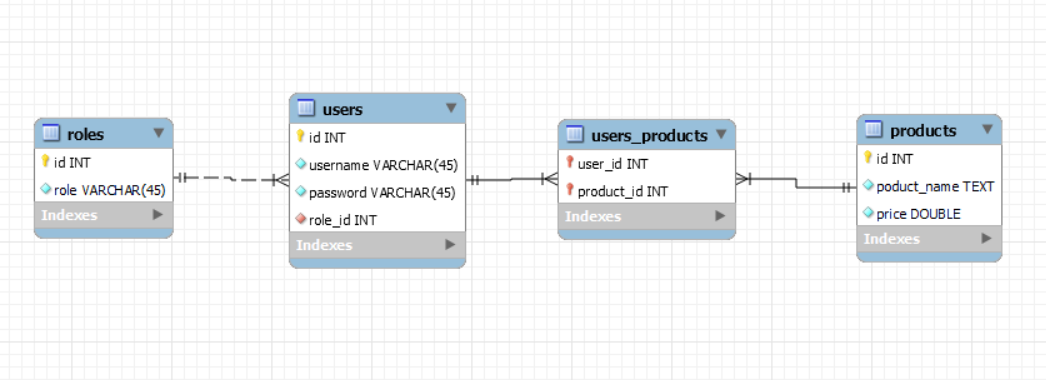
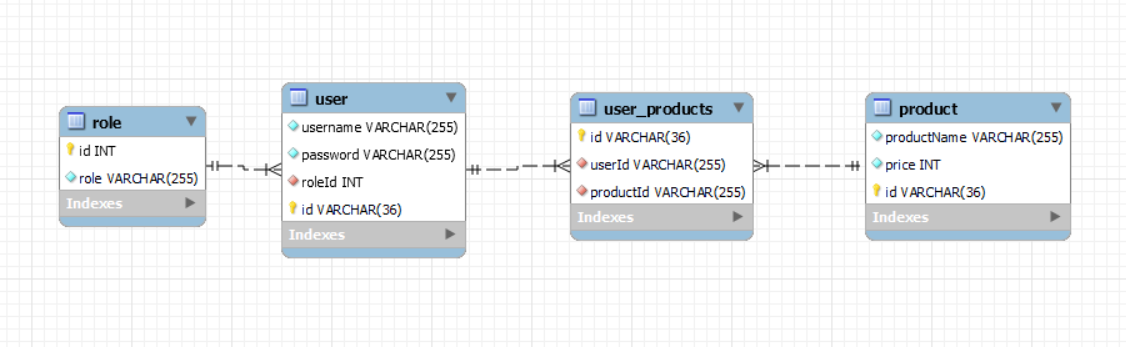
Delete unnecessary imports and update database schema

Changed region(s): [[0.0306, 0.2305, 0.979, 0.7493]]

diff --git a/src/app.module.ts b/src/app.module.ts
@@ -4,7 +4,6 @@ import { TypeOrmModule } from '@nestjs/typeorm';
 import { AppController } from './app.controller';
 import { AppService } from './app.service';
 import entities from './entities';
-import { ProductsController } from './products/products.controller';
 import { ProductsModule } from './products/products.module';
 import { RoleModule } from './role/role.module';
 import { UsersModule } from './user/users.module';

diff --git a/src/users-products/users-products.entity.ts b/src/users-products/users-products.entity.ts
@@ -1,12 +1,6 @@
 import { Product } from 'src/products/products.entity';
 import { User } from 'src/user/user.entity';
-import {
-  Column,
-  Entity,
-  ManyToOne,
-  PrimaryColumn,
-  PrimaryGeneratedColumn,
-} from 'typeorm';
+import { Column, Entity, ManyToOne, PrimaryGeneratedColumn } from 'typeorm';
 
 @Entity()
 export class UserProducts {

diff --git a/src/user/users.controller.ts b/src/user/users.controller.ts
@@ -1,13 +1,4 @@
-import {
-  Controller,
-  Post,
-  Body,
-  Get,
-  Put,
-  Delete,
-  Param,
-  Req,
-} from '@nestjs/common';
+import { Controller, Post, Get, Put, Delete, Param, Req } from '@nestjs/common';
 import { UserService } from './users.service';
 import { Request } from 'express';
 

diff --git a/src/users-products/users-products.service.ts b/src/users-products/users-products.service.ts
@@ -1,4 +1,4 @@
-import { Injectable, Inject } from '@nestjs/common';
+import { Injectable } from '@nestjs/common';
 import { InjectRepository } from '@nestjs/typeorm';
 import { Repository } from 'typeorm';
 import { UserProducts } from './users-products.entity';

diff --git a/src/products/products.service.ts b/src/products/products.service.ts
@@ -1,4 +1,4 @@
-import { Injectable, Inject } from '@nestjs/common';
+import { Injectable } from '@nestjs/common';
 import { InjectRepository } from '@nestjs/typeorm';
 import { Repository } from 'typeorm';
 import { Product } from './products.entity';

diff --git a/src/user/users.service.ts b/src/user/users.service.ts
@@ -1,4 +1,4 @@
-import { Injectable, Inject } from '@nestjs/common';
+import { Injectable } from '@nestjs/common';
 import { InjectRepository } from '@nestjs/typeorm';
 import { Repository } from 'typeorm';
 import { User } from './user.entity';

diff --git a/src/products/products.entity.ts b/src/products/products.entity.ts
@@ -1,5 +1,4 @@
-import { Role } from 'src/role/role.entity';
-import { Column, Entity, ManyToOne, PrimaryGeneratedColumn } from 'typeorm';
+import { Column, Entity, PrimaryGeneratedColumn } from 'typeorm';
 
 @Entity()
 export class Product {
